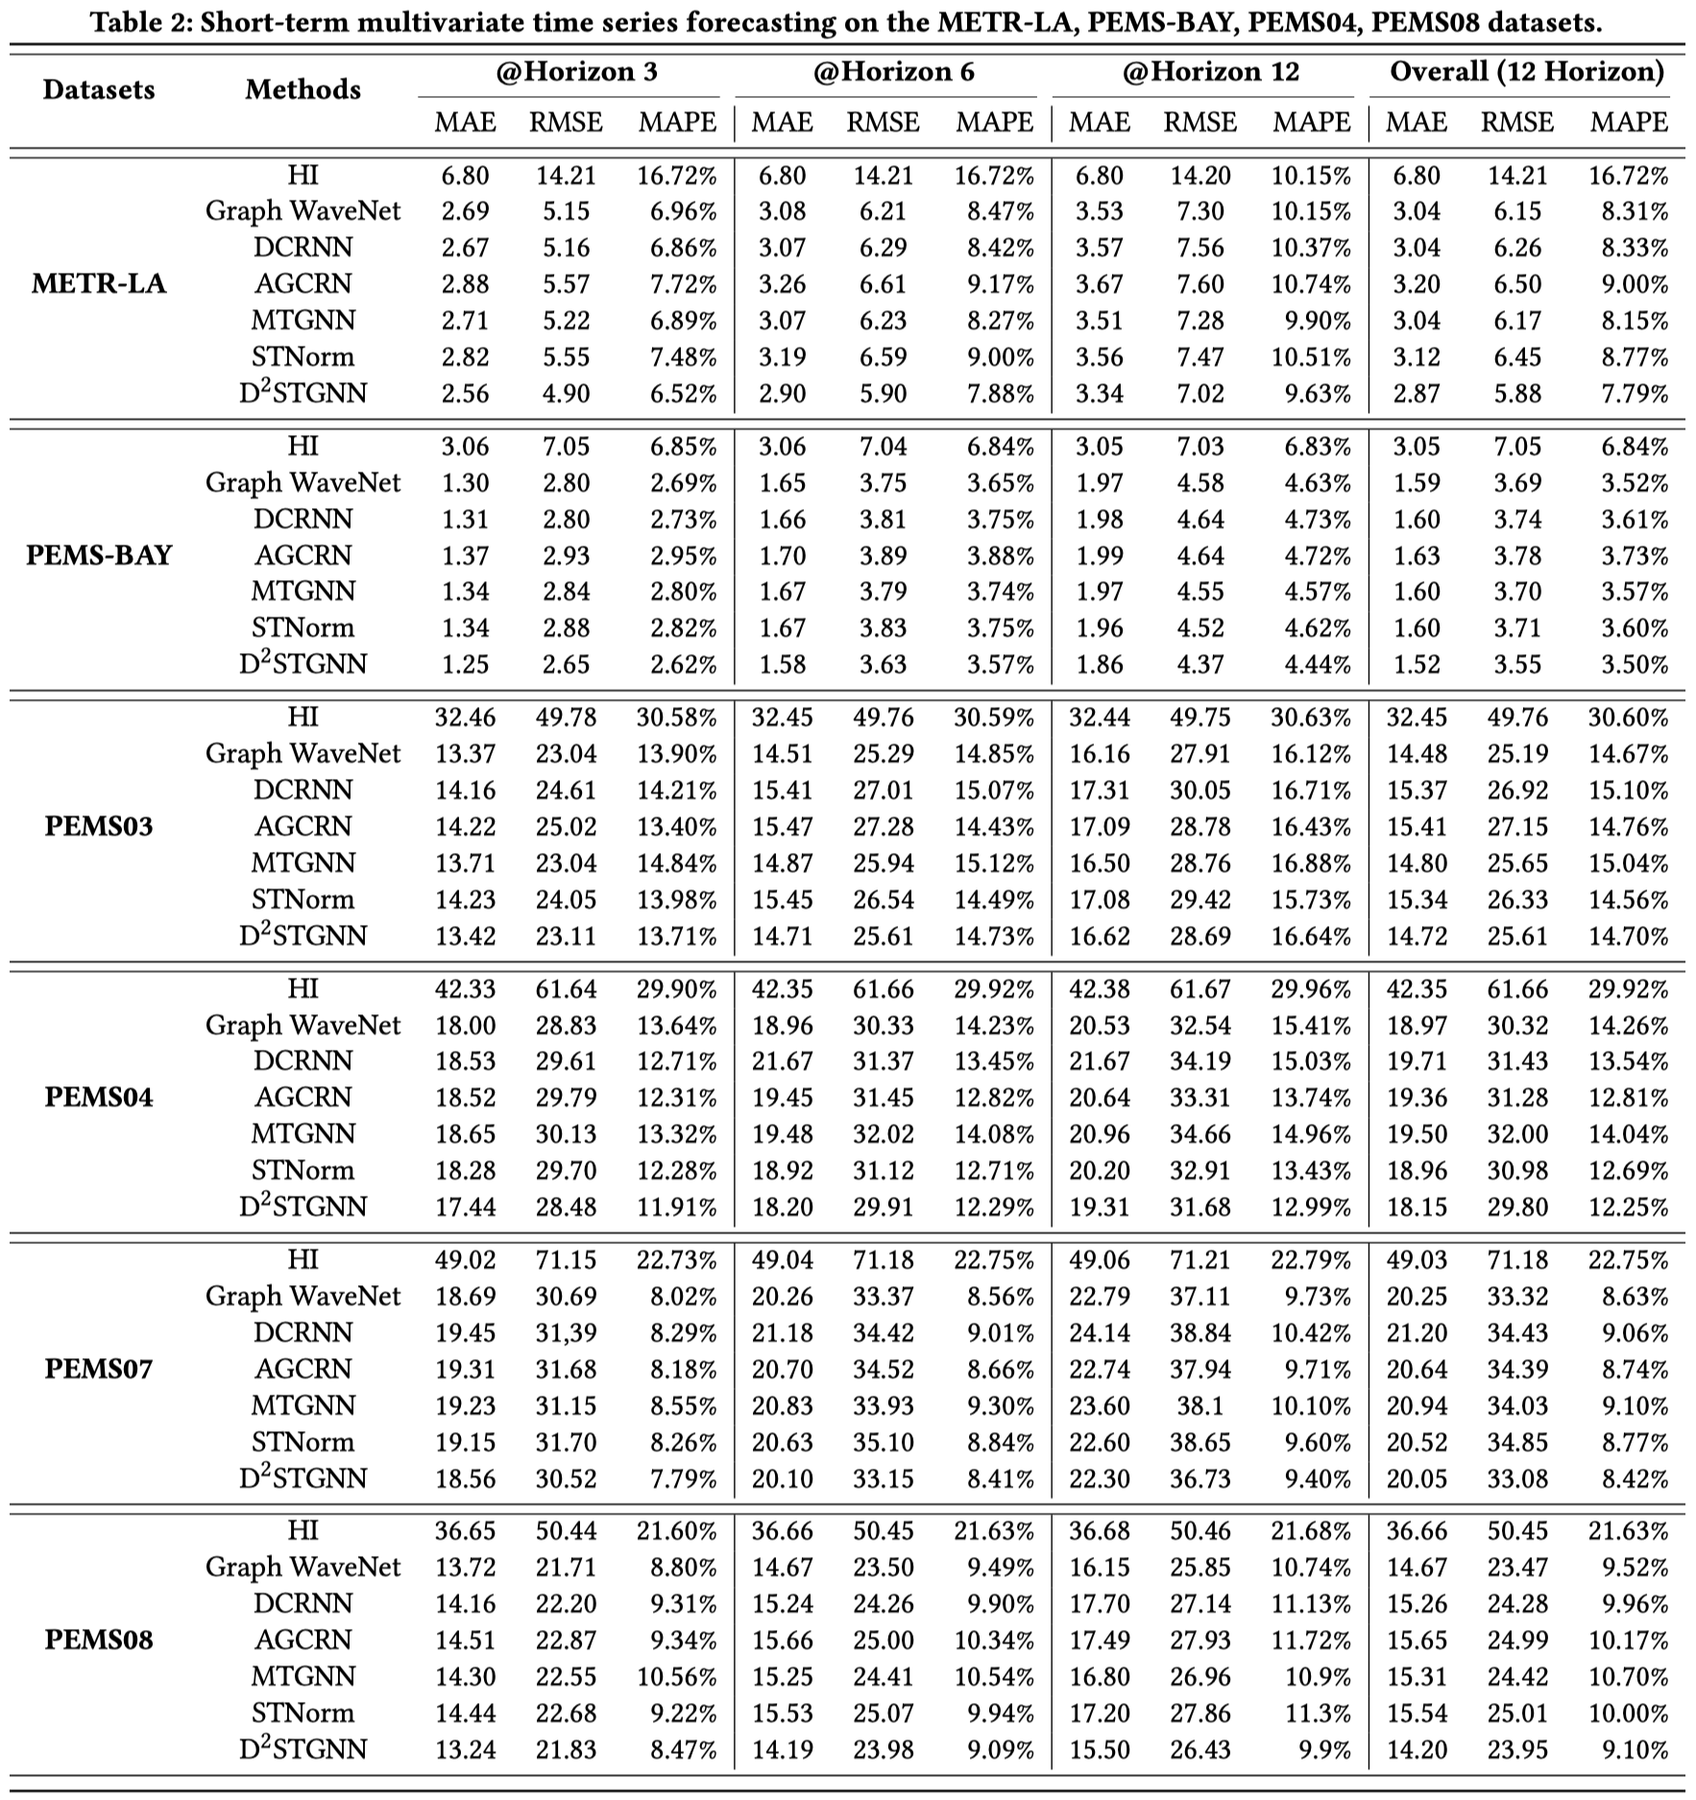
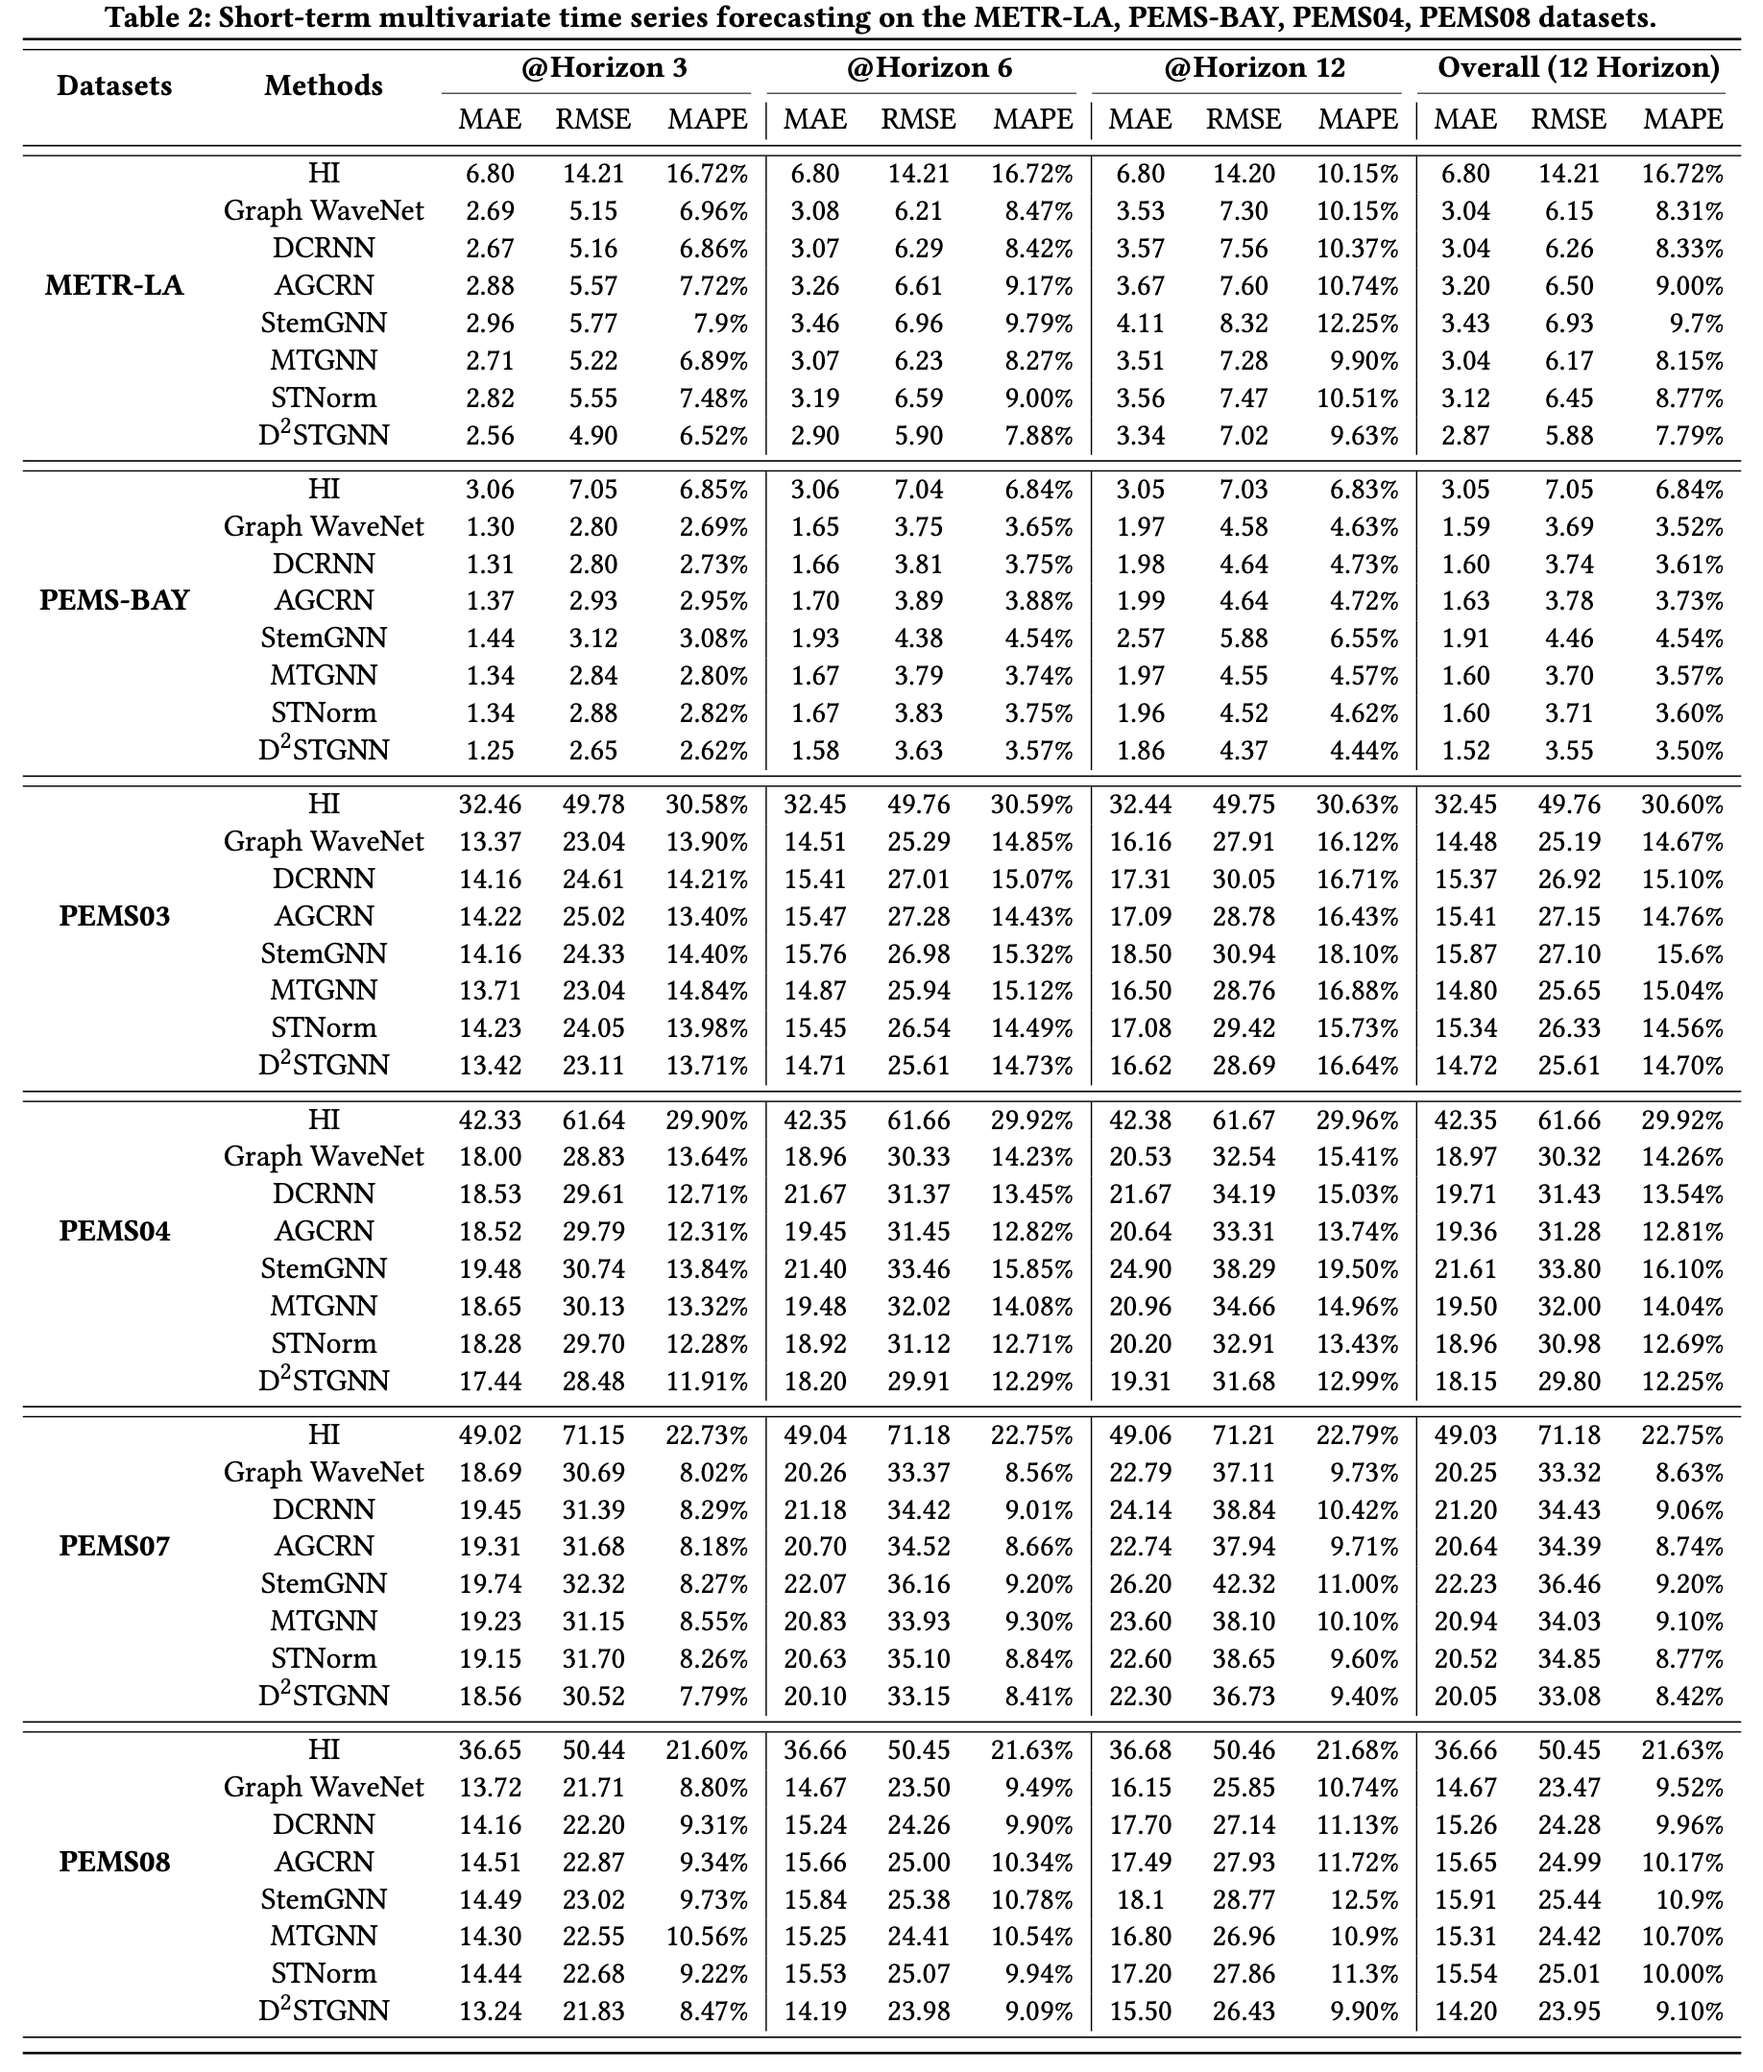
finish StemGNN

diff --git a/basicts/run.py b/basicts/run.py
@@ -28,7 +28,10 @@ def parse_args():
 
     # parser.add_argument('-opt', '--cfg', default='basicts/options/StemGNN/StemGNN_METR-LA.py', help='training config')
     # parser.add_argument('-opt', '--cfg', default='basicts/options/StemGNN/StemGNN_PEMS-BAY.py', help='training config')
-    parser.add_argument('-opt', '--cfg', default='basicts/options/StemGNN/StemGNN_PEMS03.py', help='training config')
+    # parser.add_argument('-opt', '--cfg', default='basicts/options/StemGNN/StemGNN_PEMS03.py', help='training config')
+    parser.add_argument('-opt', '--cfg', default='basicts/options/StemGNN/StemGNN_PEMS04.py', help='training config')
+    parser.add_argument('-opt', '--cfg', default='basicts/options/StemGNN/StemGNN_PEMS07.py', help='training config')
+    parser.add_argument('-opt', '--cfg', default='basicts/options/StemGNN/StemGNN_PEMS08.py', help='training config')
 
     # parser.add_argument('-opt', '--cfg', default='basicts/options/GraphWaveNet/GraphWaveNet_METR-LA.py', help='training config')
     # parser.add_argument('-opt', '--cfg', default='basicts/options/GraphWaveNet/GraphWaveNet_PEMS-BAY.py', help='training config')

diff --git a/basicts/options/StemGNN/StemGNN_METR-LA.py b/basicts/options/StemGNN/StemGNN_METR-LA.py
@@ -9,8 +9,10 @@ from basicts.data.base_dataset import BaseDataset
 from basicts.metrics.mae import masked_mae
 from basicts.metrics.mape import masked_mape
 from basicts.metrics.rmse import masked_rmse
-from basicts.losses.losses import MSELoss
+from basicts.losses.losses import masked_l1_loss
 from basicts.utils.serialization import load_adj
+
+"""Different from the official code, we use Adam as the optimizer and MAE as the loss function since they bring better performance."""
 
 CFG = EasyDict()
 
@@ -48,16 +50,16 @@ CFG.MODEL.TARGET_FEATURES  = [0]                # traffic speed
 
 # ================= optim ================= #
 CFG.TRAIN = EasyDict()
-CFG.TRAIN.LOSS = MSELoss
+CFG.TRAIN.LOSS = masked_l1_loss
 CFG.TRAIN.OPTIM = EasyDict()
 CFG.TRAIN.OPTIM.TYPE = "Adam"
 CFG.TRAIN.OPTIM.PARAM= {
-    "lr":0.002
+    "lr":0.0004
 }
 CFG.TRAIN.LR_SCHEDULER = EasyDict()
 CFG.TRAIN.LR_SCHEDULER.TYPE = "MultiStepLR"
 CFG.TRAIN.LR_SCHEDULER.PARAM= {
-    "milestones":[1, 50, 100],
+    "milestones":[1, 50],
     "gamma":0.5
 }
 

diff --git a/basicts/options/StemGNN/StemGNN_PEMS-BAY.py b/basicts/options/StemGNN/StemGNN_PEMS-BAY.py
@@ -9,8 +9,10 @@ from basicts.data.base_dataset import BaseDataset
 from basicts.metrics.mae import masked_mae
 from basicts.metrics.mape import masked_mape
 from basicts.metrics.rmse import masked_rmse
-from basicts.losses.losses import MSELoss
+from basicts.losses.losses import masked_l1_loss
 from basicts.utils.serialization import load_adj
+
+"""Different from the official code, we use Adam as the optimizer and MAE as the loss function since they bring better performance."""
 
 CFG = EasyDict()
 
@@ -48,11 +50,11 @@ CFG.MODEL.TARGET_FEATURES  = [0]                # traffic speed
 
 # ================= optim ================= #
 CFG.TRAIN = EasyDict()
-CFG.TRAIN.LOSS = MSELoss
+CFG.TRAIN.LOSS = masked_l1_loss
 CFG.TRAIN.OPTIM = EasyDict()
 CFG.TRAIN.OPTIM.TYPE = "Adam"
 CFG.TRAIN.OPTIM.PARAM= {
-    "lr":0.002
+    "lr":0.0004
 }
 CFG.TRAIN.LR_SCHEDULER = EasyDict()
 CFG.TRAIN.LR_SCHEDULER.TYPE = "MultiStepLR"

diff --git a/basicts/options/StemGNN/StemGNN_PEMS07.py b/basicts/options/StemGNN/StemGNN_PEMS07.py
@@ -12,13 +12,15 @@ from basicts.metrics.rmse import masked_rmse
 from basicts.losses.losses import masked_l1_loss
 from basicts.utils.serialization import load_adj
 
+"""Different from the official code, we use Adam as the optimizer and MAE as the loss function since they bring better performance."""
+
 CFG = EasyDict()
 
 # ================= general ================= #
 CFG.DESCRIPTION = 'StemGNN model configuration'
 CFG.RUNNER  = StemGNNRunner
 CFG.DATASET_CLS   = BaseDataset
-CFG.DATASET_NAME  = "PEMS03"
+CFG.DATASET_NAME  = "PEMS07"
 CFG.DATASET_TYPE  = 'Traffic flow'
 CFG.GPU_NUM = 1
 CFG.SEED    = 1

diff --git a/basicts/options/StemGNN/StemGNN_PEMS08.py b/basicts/options/StemGNN/StemGNN_PEMS08.py
@@ -12,13 +12,15 @@ from basicts.metrics.rmse import masked_rmse
 from basicts.losses.losses import masked_l1_loss
 from basicts.utils.serialization import load_adj
 
+"""Different from the official code, we use Adam as the optimizer and MAE as the loss function since they bring better performance."""
+
 CFG = EasyDict()
 
 # ================= general ================= #
 CFG.DESCRIPTION = 'StemGNN model configuration'
 CFG.RUNNER  = StemGNNRunner
 CFG.DATASET_CLS   = BaseDataset
-CFG.DATASET_NAME  = "PEMS03"
+CFG.DATASET_NAME  = "PEMS08"
 CFG.DATASET_TYPE  = 'Traffic flow'
 CFG.GPU_NUM = 1
 CFG.SEED    = 1

diff --git a/README.md b/README.md
@@ -27,6 +27,7 @@ BasicTS基于一个易用、强大的开源神经网络训练框架[EasyTorch](h
 | DCRNN         | ✅      | ✅       | ✅      | ✅     | ✅      | ✅     |                |
 | STGCN         | 🕐      | 🕐       | 🕐      | 🕐     | 🕐      | 🕐     |                |
 | ASTGCN        | 🕐      | 🕐       | 🕐      | 🕐     | 🕐      | 🕐     |                |
+| StemGNN       | ✅      | ✅       | ✅      | ✅     | ✅      | ✅     |                |
 | MTGNN         | ✅      | ✅       | ✅      | ✅     | ✅      | ✅     |                |
 | GTS           | 🕐      | 🕐       | 🕐      | 🕐     | 🕐      | 🕐     |                |
 | DGCRN         | 🕐      | 🕐       | 🕐      | 🕐     | 🕐      | 🕐     |                |
